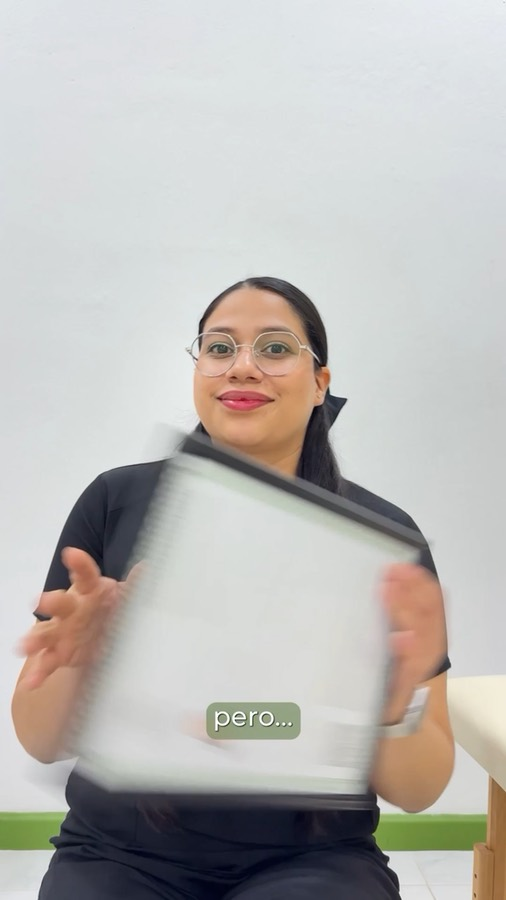
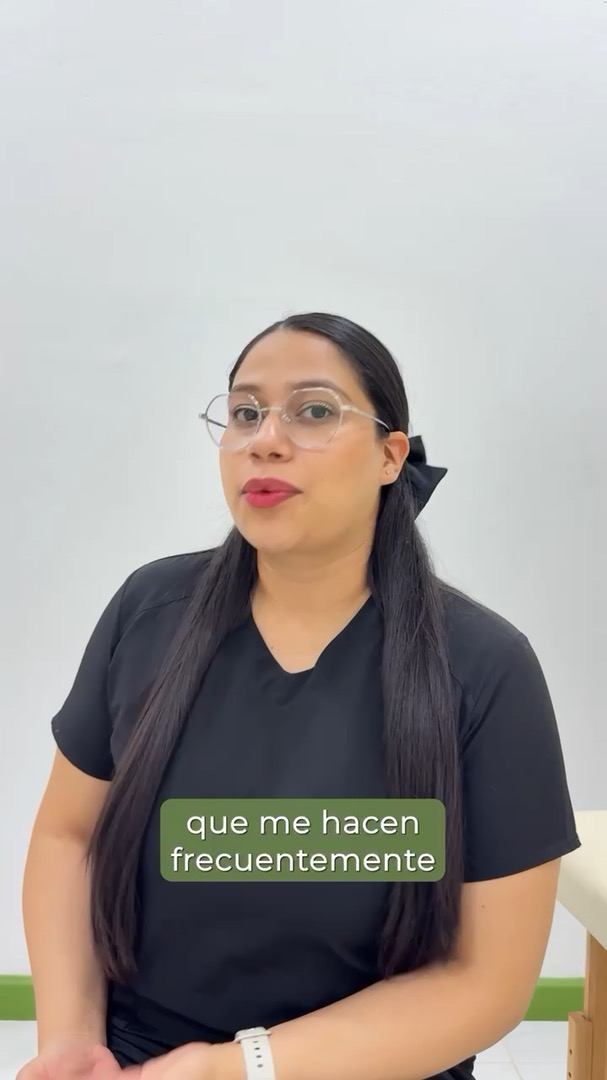
Remove VHS timecode, lay out Ducati campaign as one strip, clean reel posters

diff --git a/index.html b/index.html
@@ -323,8 +323,8 @@
                         <h3>Ducati Premier: Panigale V2S 2025</h3>
                         <p data-i18n="ducatiDesc">A multi-format launch for the Ducati Premier financing plan, built around the Panigale V2S 2025: one visual system adapted to carousel, feed post, story, motion graphic and reel.</p>
                     </div>
-                    <div class="media-grid">
-                        <figure class="media-card carousel" data-carousel>
+                    <div class="campaign-strip">
+                        <figure style="--r: 1" class="media-card carousel" data-carousel>
                             <div class="carousel-track ratio-1x1" tabindex="0" role="region" aria-roledescription="carousel" aria-label="Ducati Financial Services carousel (3 slides)">
                                 <img src="assets/images/practicas/ducati-carrusel-1.jpg" loading="lazy" decoding="async" alt="Ducati Financial Services carousel, slide 1 of 3">
                                 <img src="assets/images/practicas/ducati-carrusel-2.jpg" loading="lazy" decoding="async" alt="Ducati Financial Services carousel, slide 2 of 3">
@@ -337,19 +337,19 @@
                             </div>
                             <figcaption data-i18n="fmtCarousel">Carousel</figcaption>
                         </figure>
-                        <figure class="media-card">
+                        <figure style="--r: 1" class="media-card">
                             <img class="ratio-1x1" src="assets/images/practicas/ducati-post.jpg" loading="lazy" decoding="async" alt="Ducati Financial Services feed post featuring the Panigale V2S">
                             <figcaption>Post</figcaption>
                         </figure>
-                        <figure class="media-card">
+                        <figure style="--r: 0.5625" class="media-card">
                             <img class="ratio-9x16" src="assets/images/practicas/ducati-story.jpg" loading="lazy" decoding="async" alt="Ducati Financial Services Instagram story">
                             <figcaption>Story</figcaption>
                         </figure>
-                        <figure class="media-card">
+                        <figure style="--r: 0.649" class="media-card">
                             <img style="aspect-ratio: 1038 / 1600" src="assets/images/practicas/ducati-motion.jpg" loading="lazy" decoding="async" alt="Frame from the Ducati Financial Services motion graphic">
                             <figcaption>Motion graphic</figcaption>
                         </figure>
-                        <figure class="media-card">
+                        <figure style="--r: 0.5625" class="media-card">
                             <video class="ratio-9x16" controls playsinline preload="none" poster="assets/videos/ducati-reel-poster.jpg">
                                 <source src="assets/videos/ducati-reel.mp4" type="video/mp4">
                             </video>
@@ -426,12 +426,8 @@
         </div>
     </footer>
 
-    <!-- Analog layer: grain, scanlines, flashlight and the VHS on-screen display -->
+    <!-- Analog layer: grain, scanlines and flashlight -->
     <div class="screen-fx" aria-hidden="true"></div>
-    <div class="osd" aria-hidden="true">
-        <span class="osd-mode" data-i18n="osd">▶ PLAY  ORIGINAL CUT</span>
-        <span class="osd-time">00:00:00</span>
-    </div>
 
     <script src="js/i18n.js"></script>
     <script src="js/script.js"></script>

diff --git a/css/style.css b/css/style.css
@@ -482,6 +482,20 @@ a.project-card:hover h3 {
     line-height: 1.35;
 }
 
+/* A campaign laid out as one contact strip: every piece the same height.
+   Each figure grows in proportion to its aspect ratio (--r = width/height),
+   so squares and vertical stories line up along the same top and bottom. */
+.campaign-strip {
+    display: flex;
+    gap: 1.25rem;
+    align-items: flex-start;
+}
+
+.campaign-strip > .media-card {
+    flex: var(--r) 1 0;
+    min-width: 0;
+}
+
 /* Every image, video and carousel track shares the same frame */
 .media-card > img,
 .media-card > video,
@@ -818,31 +832,6 @@ html[data-reality="red"] .screen-fx::before {
     50% { opacity: 0; }
 }
 
-/* VHS on-screen display */
-.osd {
-    position: fixed;
-    left: 1.25rem;
-    bottom: 1rem;
-    z-index: 1600;
-    display: flex;
-    gap: 1.25rem;
-    font-family: "VT323", ui-monospace, monospace;
-    font-size: 1.35rem;
-    line-height: 1;
-    color: var(--cobalt);
-    white-space: pre;
-    pointer-events: none;
-}
-
-html[data-reality="red"] .osd {
-    color: #fff;
-    text-shadow: 2px 0 rgba(214, 38, 43, 0.9);
-}
-
-html[data-reality="red"] .osd-mode {
-    animation: blink 1.6s steps(2, jump-none) infinite;
-}
-
 /* Surfaces with fixed colours in the blue cut */
 html[data-reality="red"] .site-header {
     background: rgba(10, 5, 5, 0.9);
@@ -1002,6 +991,20 @@ html[data-reality="red"] h1::after {
         grid-template-columns: 1fr;
         gap: 2.5rem;
     }
+
+    /* Too narrow for one row: the strip scrolls sideways at a fixed height */
+    .campaign-strip {
+        overflow-x: auto;
+        scroll-snap-type: x proximity;
+        padding-bottom: 0.75rem;
+        margin-right: -2rem;
+        padding-right: 2rem;
+    }
+
+    .campaign-strip > .media-card {
+        flex: 0 0 calc(20rem * var(--r));
+        scroll-snap-align: start;
+    }
 }
 
 @media (max-width: 600px) {
@@ -1035,6 +1038,11 @@ html[data-reality="red"] h1::after {
         padding: 0.75rem 1.25rem 1.25rem;
     }
 
+    .campaign-strip {
+        margin-right: -1.25rem;
+        padding-right: 1.25rem;
+    }
+
     .nav-right {
         gap: 0.75rem;
     }
@@ -1051,12 +1059,6 @@ html[data-reality="red"] h1::after {
         overflow: hidden;
         clip: rect(0 0 0 0);
         white-space: nowrap;
-    }
-
-    .osd {
-        font-size: 1.1rem;
-        left: 0.75rem;
-        bottom: 0.6rem;
     }
 }
 

diff --git a/js/i18n.js b/js/i18n.js
@@ -88,8 +88,6 @@
             // Deleted scene (red reality). Any key ending in "Red" replaces
             // its base key while the red reality is on.
             realityLabel: 'Deleted scene',
-            osd: '▶ PLAY  ORIGINAL CUT',
-            osdRed: '● REC  DELETED SCENE',
             pageTitleRed: 'Sarai Rosas | Deleted scene',
             heroKickerRed: 'Deleted scene. Footage that never made the final cut.',
             heroTilesRed: "One of these tiles wasn't here before.",
@@ -184,8 +182,6 @@
             contactEmail: 'Escríbeme',
             rights: 'Todos los derechos reservados.',
             realityLabel: 'Escena eliminada',
-            osd: '▶ PLAY  CORTE ORIGINAL',
-            osdRed: '● REC  ESCENA ELIMINADA',
             pageTitleRed: 'Sarai Rosas | Escena eliminada',
             heroKickerRed: 'Escena eliminada. Material que nunca llegó al corte final.',
             heroTilesRed: 'Uno de estos azulejos no estaba antes.',

diff --git a/js/script.js b/js/script.js
@@ -77,15 +77,6 @@ document.addEventListener('DOMContentLoaded', () => {
         });
     }, { passive: true });
 
-    // VHS on-screen timecode, counting from when the page opened
-    const osdTime = document.querySelector('.osd-time');
-    const started = Date.now();
-    const pad = (n) => String(n).padStart(2, '0');
-    setInterval(() => {
-        const s = Math.floor((Date.now() - started) / 1000);
-        osdTime.textContent = `${pad(Math.floor(s / 3600))}:${pad(Math.floor(s / 60) % 60)}:${pad(s % 60)}`;
-    }, 1000);
-
     // Hero: a panel of Talavera tiles. Each one turns a quarter when touched,
     // except the one with a keyhole: that one is a door to the other reality.
     const tiles = document.querySelector('.tiles');
